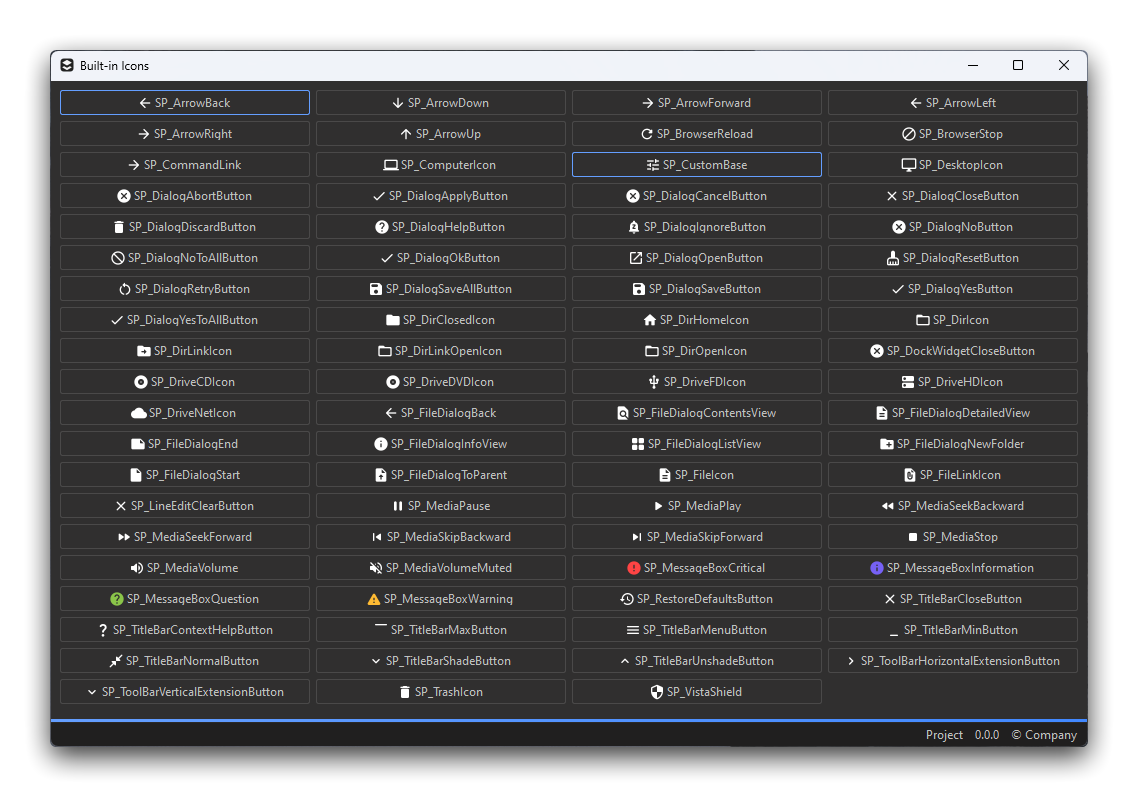
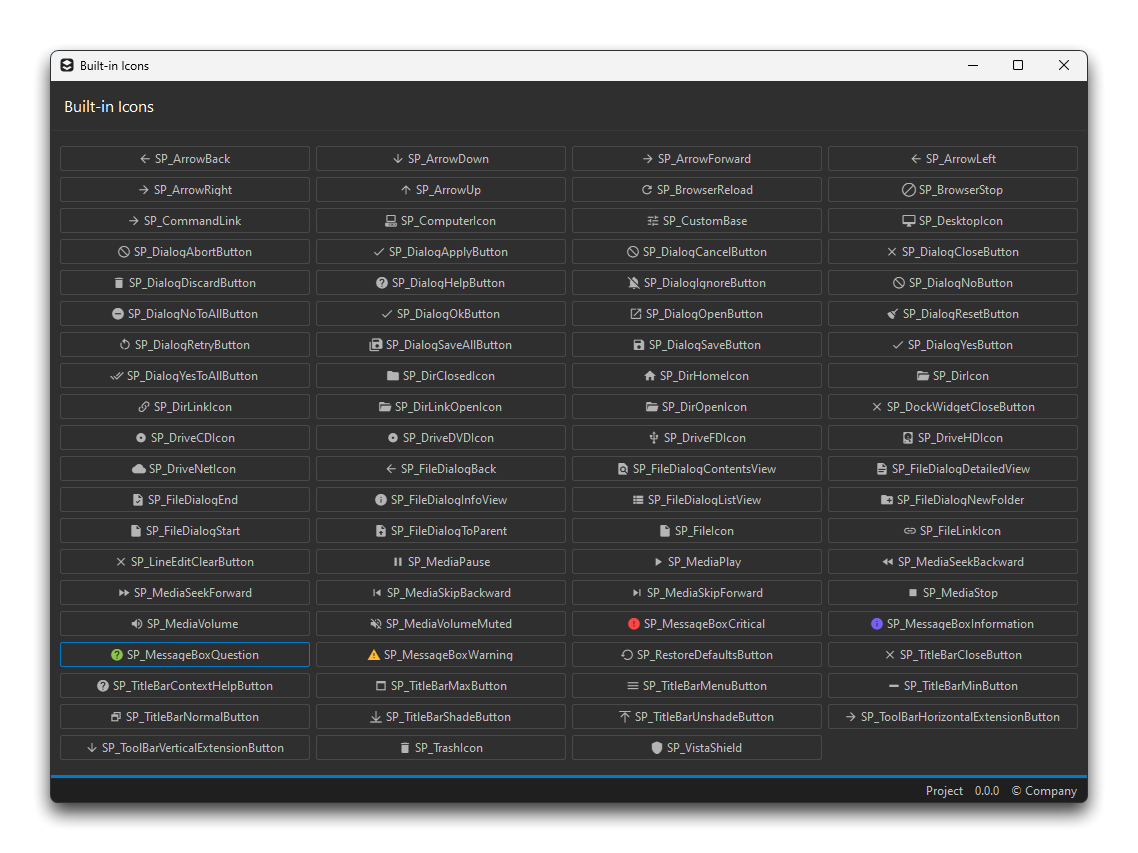
Documentation screenshot

Changed region(s): [[0.0308, 0.0602, 0.9534, 0.9636]]

diff --git a/fxgui/fxicons.py b/fxgui/fxicons.py
@@ -235,8 +235,8 @@ def get_icon(
 if __name__ == "__main__":
 
     class _FXBuiltInIcons(QWidget):
-        def __init__(self):
-            super().__init__()
+        def __init__(self, parent=None):
+            super().__init__(parent)
 
             icons = sorted(
                 [attr for attr in dir(QStyle) if attr.startswith("SP_")]
@@ -264,7 +264,7 @@ if __name__ == "__main__":
 
             clipboard = QGuiApplication.clipboard()
             # clipboard.setText(f'QStyle.{name}: ("___", "white"),')
-            clipboard.setText(f"self.style().standardIcon(QStyle.{name})")
+            clipboard.setText(name)
 
         def create_callback(self, name: str) -> Callable[[bool], None]:
             """Create a callback function for a button click.
@@ -283,8 +283,9 @@ if __name__ == "__main__":
             return lambda checked: self.copy_to_clipboard(name)
 
     application = fxwidgets.FXApplication()
-    widget = _FXBuiltInIcons()
     window = fxwidgets.FXMainWindow()
+    widget = _FXBuiltInIcons(parent=window)
+    window.set_banner_text("Built-in Icons")
     window.setCentralWidget(widget)
     window.menu_bar.hide()
     window.toolbar.hide()
